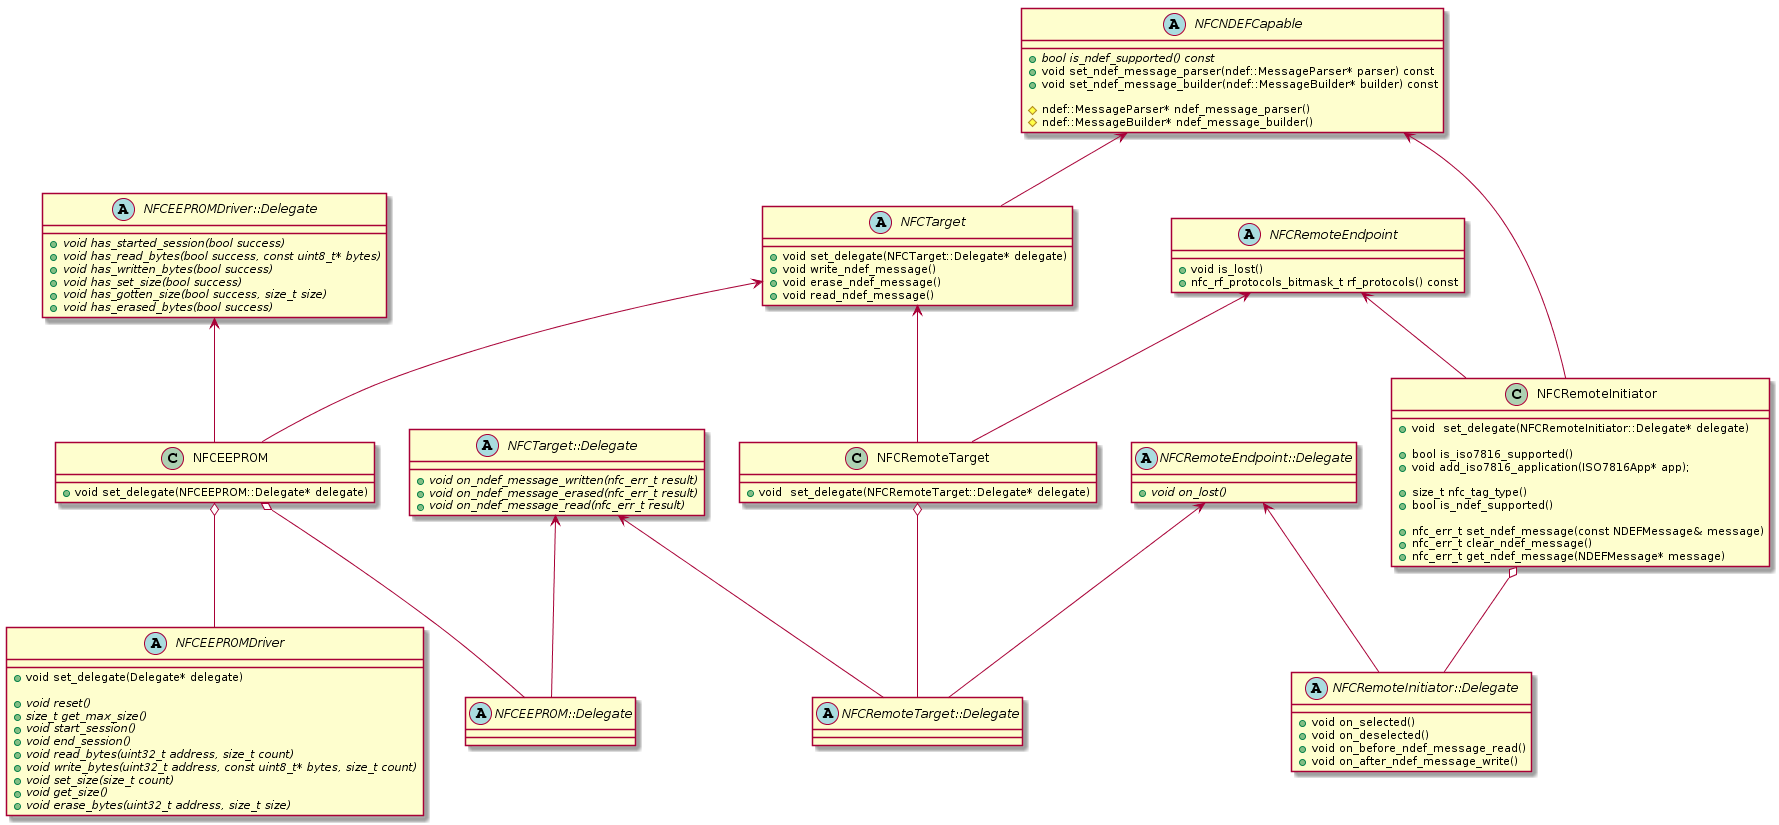
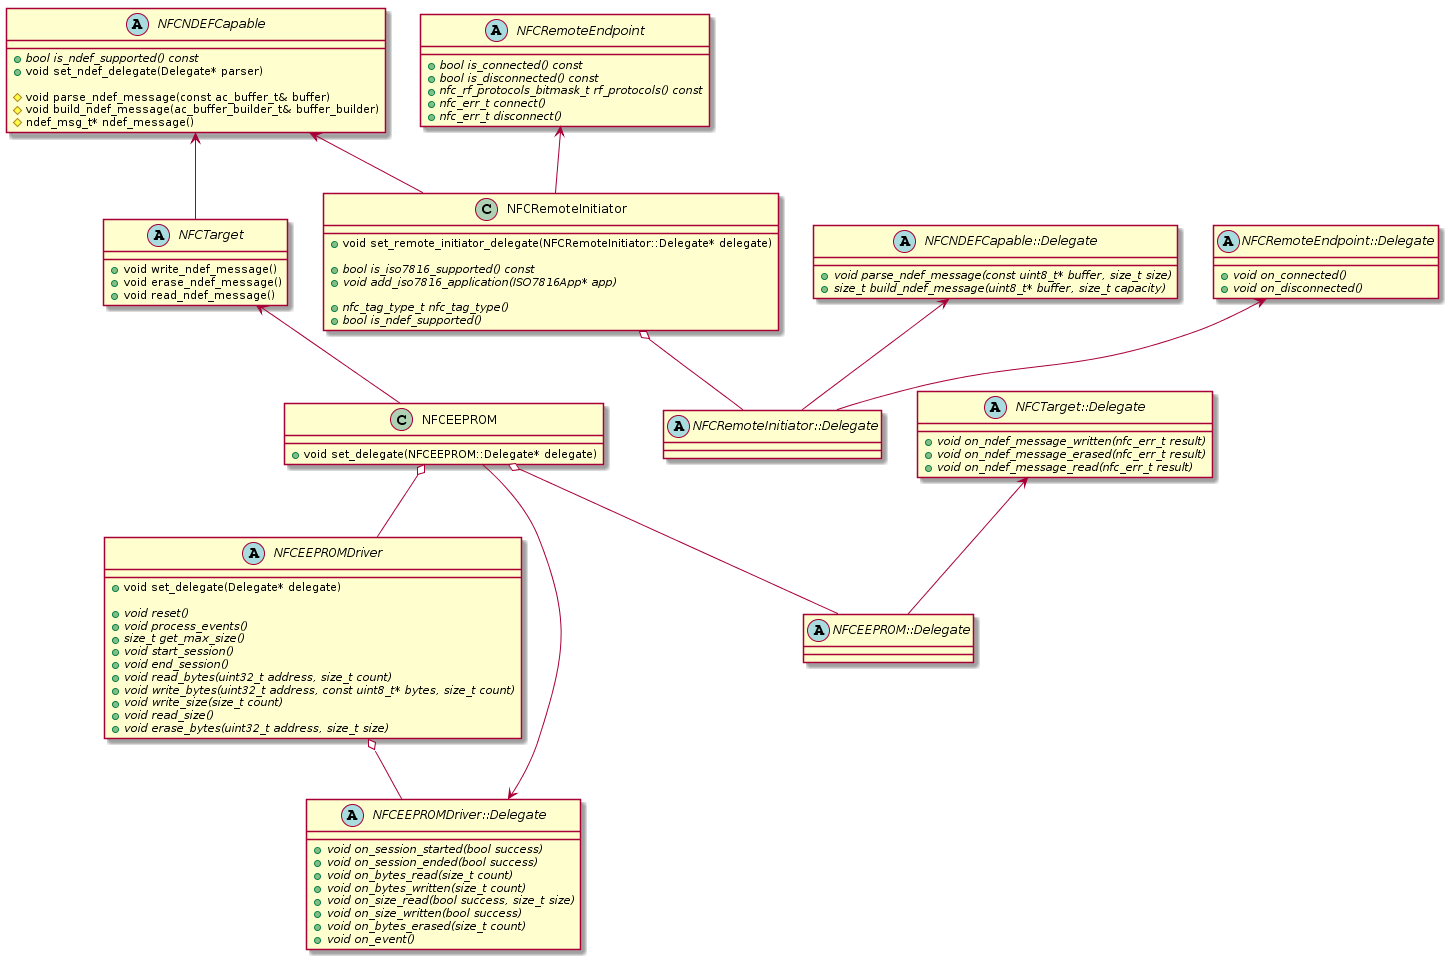
Update spec according to current implementation

diff --git a/features/nfc/doc/nfc_design.md b/features/nfc/doc/nfc_design.md
@@ -175,12 +175,31 @@ Shared pointers are used so that the user does not have to maintain the lifetime
 
 ![nfc_endpoints_diagram]
 
-#### NFC Endpoint
+#### NFC Remote Endpoint
 
-An endpoint is a generic NFC-enabled device with which the controller is communicating over the air interface.
+A remote endpoint is a generic NFC-enabled device with which the controller is communicating over the air interface.
 
 ```cpp
-bool is_lost() const;
+nfc_err_t connect();
+```
+
+Establish a connection with the remote endpoint.
+
+```cpp
+nfc_err_t disconnect();
+```
+
+Drop the connection with the remote endpoint.
+
+
+```cpp
+bool is_connected() const;
+```
+
+Set to true when the connection to this endpoint has been activated and is currently selected by the controller.
+
+```cpp
+bool is_disconnected() const;
 ```
 
 Set to true when this endpoint has been lost and the reference to the shared pointer has been released by the controller instance.
@@ -194,7 +213,14 @@ List the RF protocols which have been activated to communicate with that endpoin
 **Delegate**
 
 ```cpp
-virtual void on_lost();
+virtual void on_connected();
+```
+
+This is called when a connection to this endpoint has been succesfully established.
+
+
+```cpp
+virtual void on_disconnected();
 ```
 
 This is called when this endpoint has been lost and the reference to the shared pointer is about to be released by the controller instance.
@@ -205,25 +231,40 @@ This class is inherited by all endpoints that have the capability of handling ND
 
 User-facing API:
 ```cpp
+NFCNDEFCapable(uint8_t* buffer, size_t buffer_size);
+```
+The instance needs to be constructed using a stratch buffer which will be used to encode and/or decode NDEF messages.
+
+```cpp
 bool is_ndef_supported() const;
 
-void set_ndef_message_parser(ndef::MessageParser* parser) const;
-void set_ndef_message_builder(ndef::MessageBuilder* builder) const;
+void set_ndef_delegate(Delegate* delegate);
 ```
-
-The user can select which parser/builder (see below) should be used to handle read/write requests.
 
 API used by descendant classes:
 ```cpp
-void set_ndef_support(bool supported);
-
-ndef::MessageParser* ndef_message_parser();
-ndef::MessageBuilder* ndef_message_builder();
+void parse_ndef_message(const ac_buffer_t& buffer);
+void build_ndef_message(ac_buffer_builder_t& buffer_builder);
+ndef_msg_t* ndef_message();
 ```
+
+**Delegate**
+
+The instance receives requests to encode and decode NDEF messages and the user can choose how to handle them using the relevant builders and parsers.
+
+```cpp
+void parse_ndef_message(const uint8_t* buffer, size_t size);
+```
+The encoded NDEF message is passed to the user for processing.
+
+```cpp
+size_t build_ndef_message(uint8_t* buffer, size_t capacity);
+```
+The user can encode a NDEF message in the buffer provided and return its size (or 0).
 
 #### NFC Remote Initiator
 
-This class derives from the base `NFCEndpoint` and `NFCNDEFCapable` classes.
+This class derives from the base `NFCRemoteEndpoint` and `NFCNDEFCapable` classes.
 
 ```cpp
 enum nfc_tag_type_t {
@@ -241,6 +282,7 @@ nfc_tag_type_t nfc_tag_type();
 ```
 
 Additionally the type of NFC tag (1 to 5) which is being emulated can be recovered.
+Type 4 can be implemented on top of two technologies, therefore it is separated into type 4a and type 4b.
 
 ```cpp
 bool is_iso7816_supported();
@@ -251,19 +293,7 @@ If supported by the underlying technology (ISO-DEP), a contactless smartcard can
 
 **Delegate**
 
-```cpp
-virtual void on_selected();
-virtual void on_deselected();
-```
-
-Some phones/readers 'park' a target and re-select it later - these events let the user know what state the local target is being put in.
-
-```cpp
-virtual void on_before_ndef_message_read();
-virtual void on_after_ndef_message_write();
-```
-
-When emulating a NFC tag, it can be useful to generate a NDEF message dynamically just before a read by the initiator. Conversly if the initiator updates the NDEF message, it can be processed immediately afterwards.
+The delegate derives from delegates of `NFCRemoteEndpoint` and `NFCNDEFCapable`.
 
 #### NFC Target
 
@@ -300,7 +330,7 @@ A pointer to a `NFCEEPROMDriver` instance (see below) must be passed in the cons
 
 *Note: This is initially out of scope for the initial release*
 
-The `NFCRemoteTarget` class derives from `NFCTarget` and additionally from `NFCEndpoint`.
+The `NFCRemoteTarget` class derives from `NFCTarget` and additionally from `NFCRemoteEndpoint`.
 
 ## NDEF API
 
@@ -506,25 +536,28 @@ The `set_size()` command is called to change the size of the buffer (within the 
 `start_session()` and `end_session()` are used before a series of memory operations to allow the driver to lock/un-lock the RF interface during these operations to avoid having concurrent access to the memory.
 
 ```cpp
-void reset()
-size_t get_max_size()
-void start_session()
-void end_session()
-void read_bytes(uint32_t address, size_t count)
-void write_bytes(uint32_t address, const uint8_t* bytes, size_t count)
-void set_size(size_t count)
-void get_size()
+void reset();
+void process_events();
+size_t get_max_size();
+void start_session();
+void end_session();
+void read_bytes(uint32_t address, size_t count);
+void write_bytes(uint32_t address, const uint8_t* bytes, size_t count);
+void read_size(size_t count);
+void write_size();
 void erase_bytes(uint32_t address, size_t size)
 ```
 
 The following events must be called to signal completion of long operations:
 ```cpp
-void has_started_session(bool success);
-void has_read_bytes(bool success, const uint8_t* bytes);
-void has_written_bytes(bool success);
-void has_set_size(bool success);
-void has_gotten_size(bool success, size_t size);
-void has_erased_bytes(bool success);
+void on_session_started(bool success);
+void on_session_ended(bool success);
+void on_bytes_read(size_t count);
+void on_bytes_written(size_t count);
+void on_size_read(bool success, size_t size);
+void on_size_written(bool success);
+void on_bytes_erased(size_t count);
+void on_event();
 ```
 
 ### NCI Driver APIs
